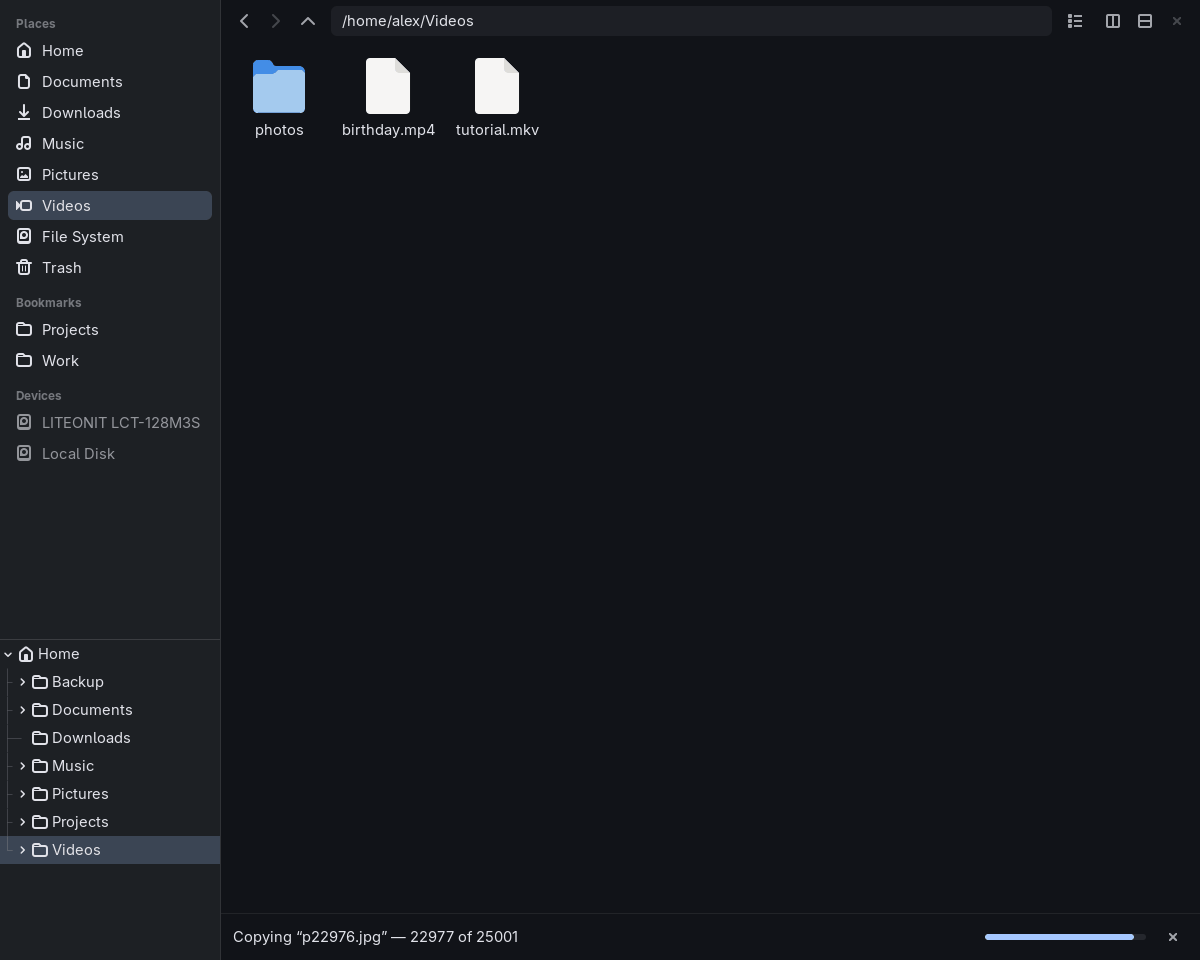
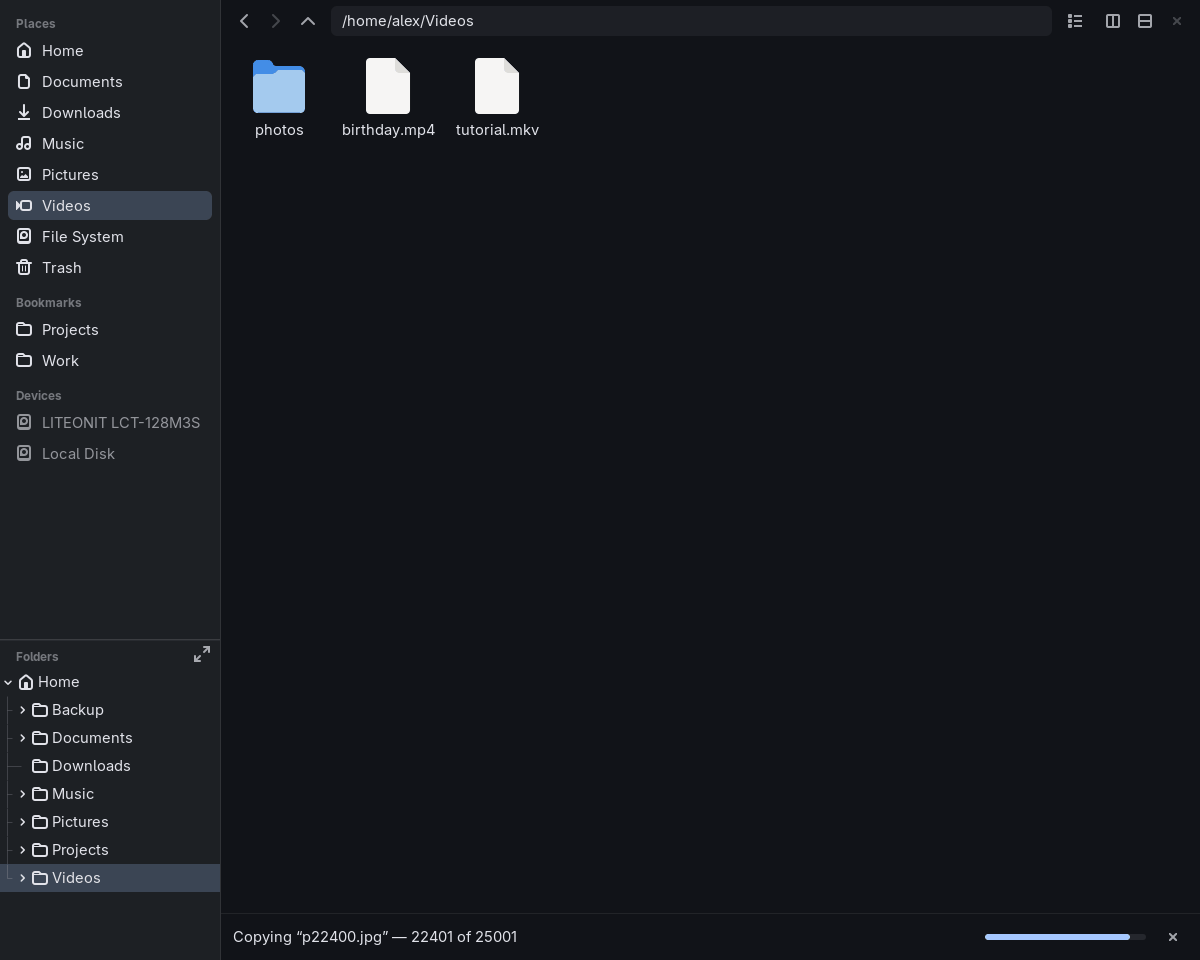
Guide: visual mode, zz, Ctrl+S and the folder tree's top bar
New visual mode section and screenshot, the new keys and commands,
[keys.visual]; all screenshots retaken (the sidebar now has the Folders
bar).

Changed region(s): [[0.0, 0.6562, 0.185, 0.9375], [0.3392, 0.9688, 0.4317, 1.0], [0.2775, 0.9688, 0.3083, 1.0]]

diff --git a/docs/guide/index.md b/docs/guide/index.md
@@ -28,7 +28,7 @@ Wayland. This guide covers every feature and every shortcut.
 
 ## The window
 
-- **Sidebar** (left): places, bookmarks and drives in the top two thirds, a folder tree below. Drag the divider to resize them.
+- **Sidebar** (left): places, bookmarks and drives in the top two thirds, a folder tree below. Drag the divider to resize them. **Ctrl+S** hides the sidebar for a minimal window, and brings it back.
 - **Path bar** (top of each view): back, forward and parent buttons, the full
   path, the grid/list toggle, and the split and close buttons.
 - **Files**: the contents of the current folder.
@@ -73,7 +73,10 @@ program for an extension, see [Configuration](#configuration).
 - **Drives**: see [Drives](#drives).
 - **Folder tree** (bottom third): follows the active view, keeping the
   current folder in the middle. Its root is your home folder, or the drive
-  the folder is on. Click a folder to open it.
+  the folder is on. Click a folder to open it. The button in its *Folders*
+  bar lets the tree fill the whole sidebar; press it again (or
+  `:toggle_tree`) to bring the places back, with the divider where you
+  left it.
 - Right-click → *Open in Split* opens a place or a tree folder in a new view
   (see [Split views](#split-views)); middle-click, or right-click → *Open in
   New Window*, opens it in a new window. The Menu key or Shift+F10 opens the
@@ -292,6 +295,8 @@ not finished within a second is dropped, and Esc drops it at once.
 | `x` / `X` | `trash` / `delete` | move to trash / delete permanently (asks) |
 | `r` / `R` | `rename` / `mass_rename` | rename / rename with a pattern |
 | `zh` | `hidden toggle` | show / hide hidden files |
+| `zz` | `center` | scroll the cursor to the middle of the view (in visual mode the first selected item) |
+| `v` | `visual` | visual mode, below |
 | `/` | `search` | the fuzzy search |
 | `:` | | the command line |
 | `<C-w>v` / `<C-w>s` | `split vertical` / `split horizontal` | split side by side / top and bottom (same rules as the buttons) |
@@ -299,6 +304,37 @@ not finished within a second is dropped, and Esc drops it at once.
 | `W` | `split next` | next view: left, right-top, right-bottom |
 | `H` `J` `K` `L` | `split left` / `down` / `up` / `right` | focus the view in that direction |
 | `<C-H>` `<C-J>` `<C-K>` `<C-L>` | `split move left` / … | swap the active view with the one in that direction |
+
+### Visual mode
+
+![Visual mode with two chunks selected](images/visual.png)
+
+`v` selects with the keyboard. The cursor moves without changing the
+selection, and a *chunk* (from where you pressed `v` to the cursor) is
+selected like a Shift+click range:
+
+1. `v` starts a chunk; `j` / `k` (`gg`, `G`) stretch it. In a grid `j`
+   moves a whole row; `h` / `l` move one item.
+2. `v` again ends the chunk: it stays selected and the cursor moves freely.
+3. `v` starts the next chunk wherever the cursor is. Chunks add up like
+   Ctrl+clicks; `<Space>` adds or removes single items.
+
+The corner shows `-- VISUAL --` and how many items are selected.
+
+| Keys | Command | Does |
+|---|---|---|
+| `v` | `visual` | end the chunk / start a new one at the cursor |
+| `o` | `visual swap` | jump to the other end of the chunk |
+| `h` / `l` | `cursor previous` / `cursor next` | the item before / after |
+| `y` | `copy_clipboard` | copy the selection to the clipboard |
+| `d` | `cut` | cut the selection |
+| `<Esc>` | `visual off` | leave visual mode |
+
+Other keys work as in normal mode: `x` trashes the selection, `r` / `R`
+rename it, `:` opens the command line for it. Anything that acts on the
+files ends visual mode, and so do going to another folder, switching the
+view, searching or clicking. Leaving visual mode never changes the
+selection.
 
 ### The command line
 
@@ -342,15 +378,18 @@ not finished within a second is dropped, and Esc drops it at once.
 | `unbookmark` | `[<bookmark>]` | remove one of sfe's bookmarks |
 | `hidden` | `on\|off\|toggle` | show or hide hidden files |
 | `view` | `grid\|list` | the active view's layout |
-| `cursor` | `down\|up\|first\|last` | move the cursor |
+| `cursor` | `down\|up\|first\|last\|previous\|next` | move the cursor (`previous` / `next`: the item before / after) |
 | `select` | `toggle\|all` | toggle the item under the cursor / select all |
+| `visual` | `[off\|swap]` | visual mode: start it, end / start a chunk; leave it; jump to the chunk's other end |
+| `center` | | scroll the cursor (in visual mode the first selected item) to the middle |
 | `command_line` |  | open the command line |
 | `q` (`quit`) | | close the active view |
 
 Every action is a command too, with `-` written as `_`: `:paste`,
 `:preferences`, `:properties`, `:search`, `:reload`, `:back`, `:forward`,
 `:up`, `:compress`, `:extract`, `:restore`, `:empty_trash`, `:select_all`,
-`:view_grid`, `:view_list`, `:new_window` and so on; they act on the
+`:view_grid`, `:view_list`, `:new_window`, `:toggle_sidebar`,
+`:toggle_tree` and so on; they act on the
 selection, like the menu. `:copy` and `:move` always need a destination
 folder: `:copy notes.txt ~/Backup`. For the second and later arguments the
 other views' folders are offered first.
@@ -366,7 +405,13 @@ Keys are bound in `config.toml`; an empty command removes a default:
 "x" = ""
 ```
 
-A binding can be any command line, with arguments.
+A binding can be any command line, with arguments. Visual mode has its own
+table, looked up before `[keys]` while selecting:
+
+```toml
+[keys.visual]
+"x" = "cut"
+```
 
 ## Debugging
 
@@ -452,5 +497,6 @@ Every shortcut in one place. The single-letter keys of normal mode are in
 | F6 | next view |
 | Ctrl+W Q | close the view |
 | Ctrl+P | preferences |
+| Ctrl+S | hide / show the sidebar |
 | Ctrl+N | new window |
 | Ctrl+Q | quit |

diff --git a/PLAN.md b/PLAN.md
@@ -133,6 +133,7 @@ Every important feature is reachable from the keyboard. Mouse users lose nothing
 
 ### Modes
 - **Normal mode:** the file views. Single keys are commands.
+- **Visual mode:** `v` in a file view; the cursor moves alone and selects chunks (below).
 - **Command mode:** the `:` command line at the bottom.
 - **Text input:** the path entry, the search field and dialogs. Keys type text there; Esc returns to normal mode.
 
@@ -153,9 +154,17 @@ Every important feature is reachable from the keyboard. Mouse users lose nothing
 | `x` / `X` | `:trash` / `:delete` | move to trash / delete permanently (asks) |
 | `r` / `R` | `:rename` / `:mass_rename` | rename (milestone 6) |
 | `zh` | `:hidden toggle` | hidden files |
+| `zz` | `:center` | scroll the cursor (in visual mode the first selected item) to the middle |
+| `v` | `:visual` | visual mode |
 | `/` | `:search` | fuzzy search overlay (milestone 7) |
 | `:` | | command line |
 | Esc | | clear the selection, close overlays |
+
+### Visual mode (TODO, 2026-11-15)
+
+- `v` starts a chunk at the cursor; `j`/`k`/`gg`/`G` (and `h`/`l`, one item) stretch it like a Shift+click range. `v` again ends the chunk, the cursor then moves without selecting, and the next `v` starts another chunk: chunks add up like Ctrl+clicks. `o` jumps to the chunk's other end, Space toggles single items.
+- `y` / `d` yank / cut at once. Any command that acts on the files ends visual mode, as do Esc, navigating, switching the view, searching, clicking, or another view becoming active. Leaving never changes the selection.
+- Visual keys are a second keymap looked up first (`[keys.visual]` in the config); everything else falls through to the normal keys. `-- VISUAL --` and the count show in the bottom-left corner.
 
 ### Split keys (as you specified)
 
@@ -230,6 +239,6 @@ Every milestone also updates the user guide (`docs/guide/index.md`) and retakes 
 5. ✅ **File ops:** action table, context menu, clipboard, copy/move/trash/delete jobs, new file/folder, properties.
 6. ✅ **Rename and mass rename:** name prompt (F2), pattern dialog with template / find-replace / case / counter and live conflict preview (F2 on several, Shift+F2), two-pass rename with rollback. The directory model dropped GtkTreeModelFilter (it emitted criticals when shown rows were removed).
 7. ✅ **Fuzzy search overlay:** tiered `fuzzy.c` scorer with unit tests; the directory model filters and orders by score; a floating card centred in the bottom third of the active pane (Ctrl+F; Up/Down/Enter/Esc).
-8. ✅ **Modal workflow:** normal-mode keymap (data-driven, overridable in `[keys]`) with chord handling and showcmd. Split focus / swap commands. The `:` command line with history, argument parsing, and grouped context-aware completion using `fuzzy.c`. All commands from section 7. Unit tests for the keymap parser, the command parser and completion ordering. (`keymap.c`, `cmdline.c`, `commands.c`, `cmdbar.c`; every action is also a command.)
+8. ✅ **Modal workflow:** normal-mode keymap (data-driven, overridable in `[keys]`) with chord handling and showcmd. Split focus / swap commands. The `:` command line with history, argument parsing, and grouped context-aware completion using `fuzzy.c`. All commands from section 7. Unit tests for the keymap parser, the command parser and completion ordering. (`keymap.c`, `cmdline.c`, `commands.c`, `cmdbar.c`; every action is also a command.) Later: visual mode (`v`, chunks), `zz`, Ctrl+S hides the sidebar, the folder tree can fill the sidebar.
 9. **Thumbnails:** images, videos, freedesktop cache, worker pool, lazy loading of visible items only.
 10. **Settings dialog**, UI scaling, `.desktop` file, `meson install`, README.
